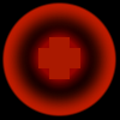
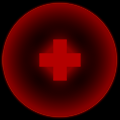
- Add the haste enemy - Fix static

diff --git a/src/Action/Enemy/Area-2/Enemy_2_4.js b/src/Action/Enemy/Area-2/Enemy_2_4.js
@@ -1,18 +1,23 @@
-CreateEnemy[1][5] = function (battle, layer, path, modifier) {
+CreateEnemy[2][4] = function (battle, layer, path, modifier) {
 	// Constant for this enemy
 	// Common stuff
-	var ENEMY_AREA 					= 1;
-	var ENEMY_TYPE 					= 5;
-	var ENEMY_BOUNTY				= 70;
+	var ENEMY_AREA 					= 2;
+	var ENEMY_TYPE 					= 4;
+	var ENEMY_BOUNTY				= 50;
 	var ENEMY_SIZE					= 1.2;
 	// Properties
-	var ENEMY_HP					= 2000;
-	var ENEMY_ARMOR					= 0;
-	var ENEMY_MOVE_SPEED 			= 1;
-	var ENEMY_ROTATE_SPEED 			= 30;
+	var ENEMY_HP					= 1000;
+	var ENEMY_ARMOR					= 0.2;
+	var ENEMY_MOVE_SPEED 			= 0.6; // It'll haste itself, so it'll be 1.2
+	var ENEMY_ROTATE_SPEED 			= 20; // It'll haste itself, so it'll be 40
 	// Attack
 	var ENEMY_DAMAGE_PER_SECOND		= 15;
 	var ENEMY_BARREL_DISTANCE 		= 1;
+	// Speed buff
+	var ENEMY_SKILL_AOE				= 3;
+	var ENEMY_SKILL_RATE			= 2;
+	var ENEMY_SKILL_SPRITE_ALPHA	= 150;
+	var ENEMY_SKILL_FADE_SPEED		= 2;
 	
 	
 	// Create and init the enemy prototype
@@ -20,7 +25,6 @@ CreateEnemy[1][5] = function (battle, layer, path, modifier) {
 	enemy.m_moveSpeed = ENEMY_MOVE_SPEED;
 	enemy.m_rotateSpeed = ENEMY_ROTATE_SPEED;
 	enemy.Init(path, ENEMY_SIZE, modifier);
-	
 	
 	// Some variable belong to the prototype
 	enemy.m_HP 				= (ENEMY_HP * modifier) >> 0;
@@ -30,6 +34,7 @@ CreateEnemy[1][5] = function (battle, layer, path, modifier) {
 	
 	// Some variable used only by this enemy
 	var targetIndex			= 1;
+	var skillAlphaCount		= 0;
 	
 	// The main sprite
 	enemy.m_sprite = GetFromPool("res/GSAction/Enemy/Area-" + ENEMY_AREA  + "/" + ENEMY_TYPE + ".png");
@@ -41,6 +46,16 @@ CreateEnemy[1][5] = function (battle, layer, path, modifier) {
 	
 	// Laser beam!
 	enemy.m_laserBeam = new EnemyLaser (battle, layer, ENEMY_AREA, enemy);
+	
+	// Skill sprite
+	enemy.m_skillSprite = GetFromPool("res/GSAction/Enemy/Area-" + ENEMY_AREA + "/Haste.png");
+	enemy.m_skillSprite.setAnchorPoint(cc.p(0.5, 0.5));
+	enemy.m_skillSprite.setBlendFunc (new cc.BlendFunc(gl.SRC_ALPHA, gl.ONE));
+	enemy.m_skillSprite.setLocalZOrder (LAYER_PROJECTILE);
+	enemy.m_skillSprite.setPosition (cc.p(0, 0));
+	enemy.m_skillSprite.setScale (ENEMY_SKILL_AOE);
+	enemy.m_skillSprite.setOpacity(ENEMY_SKILL_SPRITE_ALPHA);
+	layer.addChild(enemy.m_skillSprite);
 	
 	// Update function. This is the must for all enemy
 	enemy.Update = function (deltaTime) {
@@ -117,10 +132,22 @@ CreateEnemy[1][5] = function (battle, layer, path, modifier) {
 							this.m_laserBeam.Hide();
 						}
 					}
-				}	
+				}
 			}
 			
 			this.m_laserBeam.Update (deltaTime);
+			
+			// Heal enemy around it
+			var tempEnemyList = this.GetEnemyAroundList();
+			for (var i=0; i<tempEnemyList.length; i++) {
+				tempEnemyList[i].Haste(ENEMY_SKILL_RATE);
+			}
+			
+			// Update heal sprite
+			skillAlphaCount += deltaTime * ENEMY_SKILL_FADE_SPEED;
+			if (skillAlphaCount > 6.28) {
+				skillAlphaCount -= 6.28;
+			}
 		}
 	}
 	
@@ -132,6 +159,14 @@ CreateEnemy[1][5] = function (battle, layer, path, modifier) {
 			this.m_sprite.setRotation(this.m_angle);
 			this.m_sprite.setPosition (cc.p(spriteX, spriteY));
 			
+			this.m_skillSprite.setPosition (cc.p(spriteX, spriteY));
+			
+			var alphaMultiplier = Math.sin(skillAlphaCount);
+			if (alphaMultiplier < 0) alphaMultiplier *= -1;
+			
+			var skillAlpha = alphaMultiplier * ENEMY_SKILL_SPRITE_ALPHA;
+			this.m_skillSprite.setOpacity(skillAlpha);
+			
 			this.UpdateHPBar(spriteX, spriteY);
 			
 			this.m_laserBeam.UpdateVisual ();
@@ -141,11 +176,26 @@ CreateEnemy[1][5] = function (battle, layer, path, modifier) {
 	// Destroy
 	enemy.Destroy = function () {
 		battle.SpawnExplosion (EXPLOSION_DEBRIS, 1.8, this.m_x, this.m_y);
+		
 		layer.removeChild(this.m_sprite);
+		layer.removeChild(this.m_skillSprite);
+		
 		PutIntoPool(this.m_sprite);
+		PutIntoPool(this.m_skillSprite);
 		
 		this.m_laserBeam.Hide();
 		this.m_laserBeam.Destroy();
+	}
+	
+	enemy.GetEnemyAroundList = function() {
+		var tempEnemyList = [];
+		for (var i=0; i<battle.m_enemies.length; i++) {
+			var tempEnemy = battle.m_enemies[i];
+			if (DistanceBetweenTwoPoint (this.m_x, this.m_y, tempEnemy.m_x, tempEnemy.m_y) <= ENEMY_SKILL_AOE) {
+				tempEnemyList.push (tempEnemy);
+			}
+		}
+		return tempEnemyList;
 	}
 	
 	return enemy;

diff --git a/src/Action/Enemy/Enemy.js b/src/Action/Enemy/Enemy.js
@@ -3,6 +3,7 @@ var COMMAND_MOVE_TO_TARGET = 1;
 var COMMAND_ATTACK_TARGET = 2;
 
 var STATUS_SLOW_MODIFIER = 0.5;
+var STATUS_HASTE_MODIFIER = 2;
 var STATUS_AMPLIFY_MODIFIER = 2;
 
 
@@ -18,11 +19,12 @@ var HP_BAR_OFFSET_Y = 70;
 function Enemy (battle, layer) {
 	// Status
 	this.m_live 		= true;
-	this.m_stunned 	= 0;
+	this.m_stunned 		= 0;
 	this.m_slowed		= 0;
 	this.m_disarmed		= 0;
 	this.m_amplified	= 0;
 	this.m_corroded		= 0;
+	this.m_hasted		= 0;
 	
 	// Position
 	this.m_x 			= 0;
@@ -111,6 +113,12 @@ function Enemy (battle, layer) {
 				this.m_corroded = 0;
 			}
 		}
+		if (this.m_hasted > 0) {
+			this.m_hasted -= deltaTime;
+			if (this.m_hasted < 0) {
+				this.m_hasted = 0;
+			}
+		}
 	}
 	
 	this.UpdateHPBar = function (spriteX, spriteY) {
@@ -151,42 +159,46 @@ function Enemy (battle, layer) {
 			}
 		}
 	}
+	this.Haste = function (time) {
+		// Stun this ship for <time> seconds
+		if (this.m_hasted < time) this.m_hasted = time;
+	}
 	
 	this.Stun = function (time) {
 		// Stun this ship for <time> seconds
-		this.m_stunned = time;
+		if (this.m_stunned < time) this.m_stunned = time;
 	}
 	this.Slow = function (time) {
 		// Slow this ship for <time> seconds
-		this.m_slowed = time;
+		if (this.m_slowed < time) this.m_slowed = time;
 	}
 	this.Disarm = function (time) {
 		// Disarm this ship for <time> seconds
-		this.m_disarmed	= time;
+		if (this.m_disarmed < time) this.m_disarmed = time;
 	}
 	this.Amplify = function (time) {
 		// Aplify all damage to this ship for <time> seconds
-		this.m_amplified = time;
+		if (this.m_amplified < time) this.m_amplified = time;
 	}
 	this.Corrode = function (time) {
 		// Reduce armor to 0 for <time> seconds
-		this.m_corroded	= time;
+		if (this.m_corroded < time) this.m_corroded = time;
 	}
 	
 	
 	
 	// Helper
 	this.GetMoveSpeed = function () {
-		if (this.m_slowed <= 0) 
-			return this.m_moveSpeed;
-		else
-			return this.m_moveSpeed * STATUS_SLOW_MODIFIER;
+		var speed = this.m_moveSpeed;
+		if (this.m_slowed > 0) speed *= STATUS_SLOW_MODIFIER;
+		if (this.m_hasted > 0) speed *= STATUS_HASTE_MODIFIER;
+		return speed;
 	}
 	this.GetRotateSpeed = function () {
-		if (this.m_slowed <= 0) 
-			return this.m_rotateSpeed;
-		else
-			return this.m_rotateSpeed * STATUS_SLOW_MODIFIER;
+		var speed = this.m_rotateSpeed;
+		if (this.m_slowed > 0) speed *= STATUS_SLOW_MODIFIER;
+		if (this.m_hasted > 0) speed *= STATUS_HASTE_MODIFIER;
+		return speed;
 	}
 	this.GetArmor = function () {
 		if (this.m_corroded <= 0) 

diff --git a/src/Mission.js b/src/Mission.js
@@ -118,7 +118,7 @@ tempMission.AddWaveData (   5, new WaveData(   0,    1.3,     1,     2,      10,
 tempMission.AddWaveData (   5, new WaveData(   0,    1.6,     1,     3,      10,        1,       3.5  ));
 tempMission.AddWaveData (   6, new WaveData(   0,      1,     1,     2,      15,        1,         4  ));
 tempMission.AddWaveData (   6, new WaveData(   0,      5,     1,     3,      15,      0.5,         4  ));
-tempMission.AddWaveData (   7, new WaveData(   0,      1,     1,     2,       5,      0.5,       4.5  ));
+tempMission.AddWaveData (   7, new WaveData(   0,      1,     1,     2,      15,      0.5,       4.5  ));
 tempMission.AddWaveData (   7, new WaveData(   0,    1.5,     1,     3,      15,      0.5,       4.5  ));
 
 
@@ -267,7 +267,7 @@ tempMission.AddWaveData (   5, new WaveData(   0,    1.3,     2,     2,      10,
 tempMission.AddWaveData (   5, new WaveData(   0,    1.6,     2,     3,      10,        1,       3.5  ));
 tempMission.AddWaveData (   6, new WaveData(   0,      1,     2,     2,      15,        1,         4  ));
 tempMission.AddWaveData (   6, new WaveData(   0,      5,     2,     3,      15,      0.5,         4  ));
-tempMission.AddWaveData (   7, new WaveData(   0,      1,     2,     2,       5,      0.5,       4.5  ));
+tempMission.AddWaveData (   7, new WaveData(   0,      1,     2,     2,      15,      0.5,       4.5  ));
 tempMission.AddWaveData (   7, new WaveData(   0,    1.5,     2,     3,      15,      0.5,       4.5  ));
 
 

diff --git a/src/Action/Friendly/Projectile/ProjectileLaser.js b/src/Action/Friendly/Projectile/ProjectileLaser.js
@@ -45,7 +45,7 @@ function ProjectileLaser(battle, layer, owner) {
 	
 	this.Show = function (x, y) {
 		this.m_active = true;
-		this.m_target = owner.target;
+		this.m_target = owner.m_target;
 		this.m_x = x;
 		this.m_y = y;
 		
@@ -54,8 +54,8 @@ function ProjectileLaser(battle, layer, owner) {
 		this.m_sprite.setPosition (cc.p(spriteX, spriteY));
 		this.m_tipSprite1.setPosition (cc.p(spriteX, spriteY));
 		
-		var targetSpriteX = (target.m_x + 0.5) * BLOCK_SIZE - battle.m_mapRealWidth * 0.5;
-		var targetSpriteY = (target.m_y + 0.5) * BLOCK_SIZE - battle.m_mapRealHeight * 0.5;
+		var targetSpriteX = (this.m_target.m_x + 0.5) * BLOCK_SIZE - battle.m_mapRealWidth * 0.5;
+		var targetSpriteY = (this.m_target.m_y + 0.5) * BLOCK_SIZE - battle.m_mapRealHeight * 0.5;
 		this.m_tipSprite2.setPosition (cc.p(targetSpriteX, targetSpriteY));
 		
 		this.m_sprite.setVisible (true);

diff --git a/src/Action/Friendly/Projectile/ProjectileStatic.js b/src/Action/Friendly/Projectile/ProjectileStatic.js
@@ -79,6 +79,7 @@ function ProjectileStatic(battle, layer, x, y, angle, owner) {
 						if (!sparkFound) {
 							var tempSpark = new StaticSpark(battle, layer, this);
 							this.m_sparkList.push (tempSpark);
+							tempSpark.Spawn (tempEnemy, owner.m_level);
 						}
 					}
 				}
@@ -170,13 +171,15 @@ function StaticSpark(battle, layer, owner) {
 			}
 			
 			var targetDistance = DistanceBetweenTwoPoint (owner.m_x, owner.m_y, this.m_target.m_x, this.m_target.m_y);
-			if (targetDistance > PROJECTILE_STATIC_AOE[this.m_level]) {
+			if (targetDistance > PROJECTILE_STATIC_AOE[this.m_level] + this.m_target.m_size) {
 				this.m_active = false;
 				this.m_sprite.setVisible (false);
+				this.m_target = null;
 			}
 			else if (this.m_target.m_HP <= 0) {
 				this.m_active = false;
 				this.m_sprite.setVisible (false);
+				this.m_target = null;
 			}
 			
 		}

diff --git a/src/Resource.js b/src/Resource.js
@@ -236,8 +236,10 @@ g_imageList.push ("res/GSAction/Enemy/Area-1/Gatling.png");
 g_imageList.push ("res/GSAction/Enemy/Area-1/Laser.png");
 g_imageList.push ("res/GSAction/Enemy/Area-1/LaserTip.png");
 g_imageList.push ("res/GSAction/Enemy/Area-2/Ball.png");
+g_imageList.push ("res/GSAction/Enemy/Area-2/Laser.png");
 // Skill
 g_imageList.push ("res/GSAction/Enemy/Area-1/Heal.png");
+g_imageList.push ("res/GSAction/Enemy/Area-2/Haste.png");
 
 // Explosion
 for (var i=0; i<g_explosionData.length; i++) {
